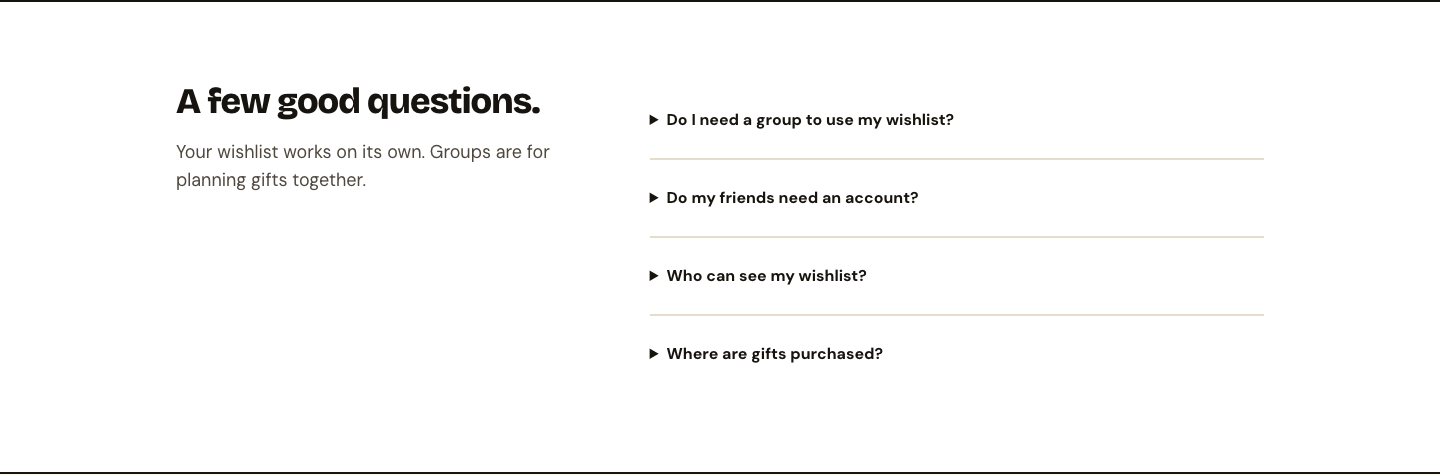
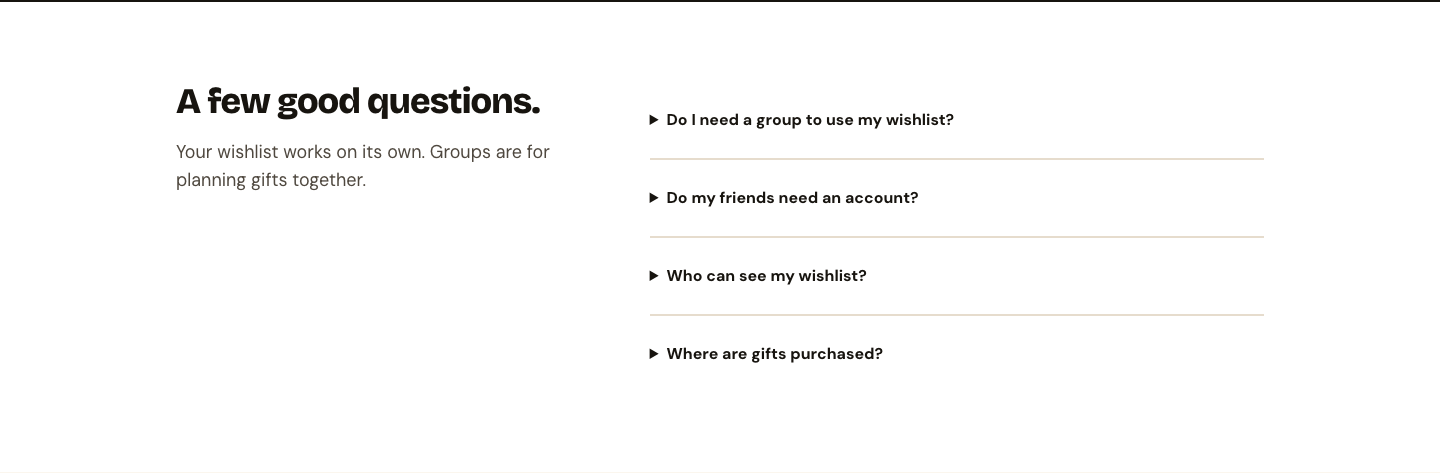
Remove outer occasion and FAQ borders

diff --git a/src/landing/landing-page.tsx b/src/landing/landing-page.tsx
@@ -144,7 +144,7 @@ export function LandingPage({
         <section
           id="occasions"
           aria-labelledby="occasions-title"
-          className="border-y-2 border-outline-strong"
+          className="border-b-2 border-outline-strong"
         >
           <div className="mx-auto grid max-w-6xl gap-10 px-5 pt-20 pb-30 sm:px-8 lg:grid-cols-[1.4fr_1fr] lg:items-center">
             <div className="lg:order-2">
@@ -184,7 +184,7 @@ export function LandingPage({
 
         <section
           aria-labelledby="questions-title"
-          className="-mt-0.5 border-y-2 border-outline-strong bg-surface-raised"
+          className="-mt-0.5 border-t-2 border-outline-strong bg-surface-raised"
         >
           <div className="mx-auto grid max-w-6xl gap-8 px-5 py-16 sm:px-8 sm:py-20 lg:grid-cols-[0.8fr_1.2fr] lg:gap-16">
             <div>

diff --git a/docs/delivery/evidence/landing-positioning-2026-10-04/README.md b/docs/delivery/evidence/landing-positioning-2026-10-04/README.md
@@ -14,7 +14,7 @@ The user approved the marketing review after new visitors could not understand h
 - [x] Make the secondary hero action useful: **How it works** scrolls to `#how` at desktop and mobile sizes. The removed interactive example is not moved elsewhere; its unused component and unit tests are deleted.
 - [x] Keep public-sharing claims truthful. The original hero's “Reserved secretly” sticker is omitted because public wishlist links never expose reservations. This is the only change inside the restored hero illustration; its composition and remaining content stay intact.
 - [x] Introduce groups as optional and use existing individual wishlists. Restore the original Santa Party member/product illustration, including its private reservation badges, budget states and explicit explanation that Kabir cannot see reservations on his own list. The three current benefits use the original numbered tomato markers (1, 2, 3), as requested. The old universal “No double gifts” headline is not restored.
-- [x] Restore the original **Any excuse to gift.** events section with its colorful occasion tiles between groups and FAQ. Remove the condensed “Birthdays · Diwali · Eid · Secret Santa · Just because” line beneath groups. Keep the original colors and content. The latest user-approved refinement puts occasion cards on the left and text on the right at desktop widths, with full-width top/bottom section borders on both occasions and FAQ. Mobile keeps the introductory text above the cards.
+- [x] Restore the original **Any excuse to gift.** events section with its colorful occasion tiles between groups and FAQ. Remove the condensed “Birthdays · Diwali · Eid · Secret Santa · Just because” line beneath groups. Keep the original colors and content. The latest user-approved refinement puts occasion cards on the left and text on the right at desktop widths, with a single full-width separator between occasions and FAQ, no top border on occasions and no bottom border on FAQ. Mobile keeps the introductory text above the cards.
 - [x] Explain public-link visibility, sign-in requirements for reactions/groups and external purchases in accessible disclosure questions.
 - [x] Preserve authentication intent, session-aware navigation and logout confirmation. No schema, permissions, protected-app, dependency or production-resource changes.
 
@@ -51,7 +51,7 @@ Final screenshots use the integrated landing branch based on **ad2dfd7**, plus t
 - Combined `pnpm verify` passed formatting, lint, type-check, **154 test files /1,512 unit tests**, and production build (run by the coordinating agent before the final styling-only refinement). The latest border/column build also passed.
 - Focused final landing/browser accessibility run: **23 passed, 1 intentional mobile-navigation skip**. The two viewport variants of the test requiring an unconfigured auth provider were explicitly excluded with `--grep-invert`, because this integrated server has Supabase configured. That failure-recovery scenario passed earlier on the isolated unconfigured build; no production behavior or test files were altered to accommodate this run.
 - Independent rendered-page checks at both sizes confirmed markers **1,2,3**, three original hero product images, no hero reservation sticker, original **Santa Party 🎉** group illustration, seven occasion tiles, occasions before FAQ, and absence of the condensed occasion line. No horizontal overflow:1440/1440 desktop and390/390 mobile.
-- Final border/column checks passed on the latest running build: occasions and FAQ each span the full viewport (1440px desktop /390px mobile), each has2px top and bottom borders, and their shared edge overlaps by2px to remain a single line. Cards are left of text on desktop; text precedes cards vertically on mobile. Screenshots were visually inspected; no broad test rerun was needed for this styling-only refinement.
+- Final border/column checks passed on the latest running build: occasions and FAQ each span the full viewport (1440px desktop /390px mobile), occasions has a 0px top /2px bottom border, FAQ has a 2px top /0px bottom border, and their shared edge overlaps by2px to remain a single line. Cards are left of text on desktop; text precedes cards vertically on mobile. Screenshots were visually inspected; no broad test rerun was needed for this styling-only refinement.
 - Anonymous page metadata renders `/assets/brand/share-banner-v2.png` for both Open Graph and Twitter images. Favicon, PNG icon and Apple icon links are present. Asset correctness was checked separately in the integrated brand work.
 - Existing golden files are untouched. The last comparison before restoring the occasion section reported two expected landing differences from the old group-first design. New final screenshots require explicit review and baseline approval; they were not adopted automatically.
 - This public-only revision does not mutate data. Database suites were handled separately by the CI-fix work.
@@ -64,4 +64,4 @@ No migration is required. Reverting the landing commits restores the previous pa
 
 ## Occasion-section restoration
 
-The final follow-up restores the original V18 occasion section immediately before the FAQ, as explicitly requested. It reuses the original seven fixed tiles, semantic colors, rotation rhythm and copy. A later explicit refinement reverses the desktop columns (cards left, text right) and adds full-width top/bottom borders to occasions and FAQ. Their shared separator overlaps by one border width to avoid a doubled line. The condensed occasion line is removed. Focused formatting and11landing unit checks passed on this change. The coordinating agent subsequently verified and built the integrated branch; final screenshots now show this restored section. No server was started or stopped during the screenshot follow-up.
+The final follow-up restores the original V18 occasion section immediately before the FAQ, as explicitly requested. It reuses the original seven fixed tiles, semantic colors, rotation rhythm and copy. A later explicit refinement reverses the desktop columns (cards left, text right) and retains only the full-width separator between occasions and FAQ after the user removed the occasions top border and FAQ bottom border. Their shared separator overlaps by one border width to avoid a doubled line. The condensed occasion line is removed. Focused formatting and11landing unit checks passed on this change. The coordinating agent subsequently verified and built the integrated branch; final screenshots now show this restored section. No server was started or stopped during the screenshot follow-up.

diff --git a/DESIGN.md b/DESIGN.md
@@ -27,7 +27,7 @@ Primary landing language:
 - Supporting line: **No group needed. Friends can view your list without signing up.**
 - Optional next step: **Gifting together? Start a group.**
 
-Teach adding, sharing and shopping from the original store before introducing groups. A group brings existing individual wishlists together; it is not a prerequisite or a new shared wishlist. The hero uses the original V18 overlapping product-card collage, tape, reaction bubbles and reduced-motion-aware entrance. The user explicitly restored this illustration after reviewing interactive alternatives. Its “Reserved secretly” sticker is omitted so the public-sharing hero does not imply public reservation visibility. The groups section retains the original Santa Party member/product illustration, including its private reservation badges and recipient-visibility explanation. Groups remain an optional next step in the surrounding new copy. The **Any excuse to gift.** section and original colorful occasion tiles appear after groups and before the FAQ; the condensed occasion text row is removed. The latest approved layout puts occasion cards on the left and text on the right on desktop, with text first on mobile. Occasions and FAQ both have full-width top/bottom borders with one shared separator between them. Never imply in-app checkout, pooled payments, guaranteed extraction or duplicate prevention.
+Teach adding, sharing and shopping from the original store before introducing groups. A group brings existing individual wishlists together; it is not a prerequisite or a new shared wishlist. The hero uses the original V18 overlapping product-card collage, tape, reaction bubbles and reduced-motion-aware entrance. The user explicitly restored this illustration after reviewing interactive alternatives. Its “Reserved secretly” sticker is omitted so the public-sharing hero does not imply public reservation visibility. The groups section retains the original Santa Party member/product illustration, including its private reservation badges and recipient-visibility explanation. Groups remain an optional next step in the surrounding new copy. The **Any excuse to gift.** section and original colorful occasion tiles appear after groups and before the FAQ; the condensed occasion text row is removed. The latest approved layout puts occasion cards on the left and text on the right on desktop, with text first on mobile. Occasions has no top border and FAQ has no bottom border; retain the single full-width separator between them. Never imply in-app checkout, pooled payments, guaranteed extraction or duplicate prevention.
 
 Keep the V18 visual language, typography and semantic tokens. This approved landing hierarchy supersedes V18's group-first marketing copy only; it does not change authenticated screens or authorize automatic visual baseline replacement. New desktop/mobile review evidence lives in `docs/delivery/evidence/landing-positioning-2026-10-04/`.
 
